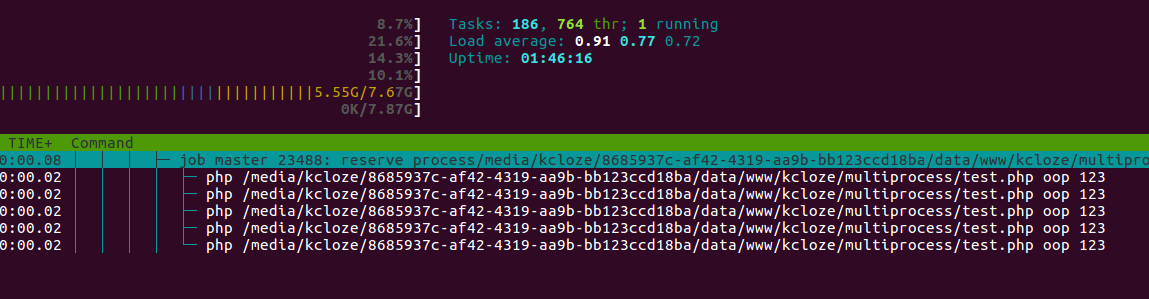
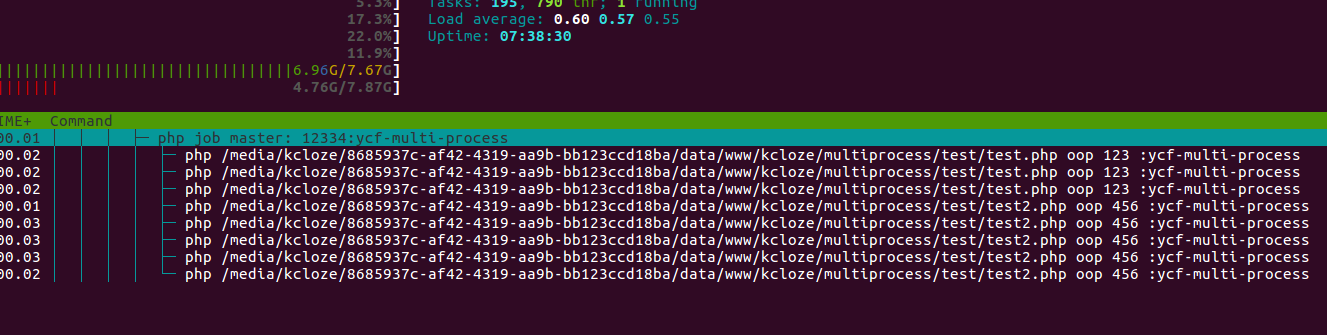
完善文档

diff --git a/README.md b/README.md
@@ -1,10 +1,13 @@
 # multiprocess
 * 基于swoole的脚本管理，用于多进程和守护进程管理
+* 可轻松让普通PHP脚本变守护进程和多进程执行
 * 进程个数可配置，可以根据配置一次性执行多条命令
 * 子进程异常退出时,自动重启
 * 主进程异常退出时,子进程在干完手头活后退出(平滑退出)
 
+
 ## 场景
+
 * PHP需要跑一个或多个cli脚本消费队列（常驻）
 * 实现脚本退出后自动拉起，防止消费队列不工作，影响业务
 * 其实supervisor可以轻松做个事情，这个只是PHP的另一种实现，不需要换技术栈
@@ -13,10 +16,7 @@
 * git clone https://github.com/kcloze/multiprocess.git
 * composer install
 * 根据自己业务配置,修改config.php
-```
-    'bin'       => '/usr/bin/php',
-    'binArgs'   => [__DIR__ . '/test.php', 'oop', '123'],
-```
+
 
 ## 配置实例
 * 一次性执行多个命令
@@ -24,23 +24,34 @@
     'logPath'   => __DIR__ . '/log',
     'exec'      => [
         [
-            'token'     => 'kcloze-test-1',
+            'name'      => 'kcloze-test-1',
             'bin'       => '/usr/bin/php',
-            'binArgs'   => [__DIR__ . '/test.php', 'oop', '123'],
+            'binArgs'   => [__DIR__ . '/test/test.php', 'oop', '123'],
             'workNum'   => 3,
         ],
         [
-            'token'     => 'kcloze-test-2',
+            'name'      => 'kcloze-test-2',
             'bin'       => '/usr/bin/php',
-            'binArgs'   => [__DIR__ . '/test2.php', 'oop', '456'],
+            'binArgs'   => [__DIR__ . '/test/test2.php', 'oop', '456'],
             'workNum'   => 5,
         ],
     ],
 
 ```
 ## 运行
+
+### 1.启动
 * chmod -R u+r log/
 * php run.php start >> log/worker.log 2>&1
+### 2.停止
+* php run.php stop
+### 3.重启
+* php run.php restart
+### 4.监控
+* ps -ef|grep 'multi-process'
+
+
+
 
 ![监控图](monitor.png)
 
